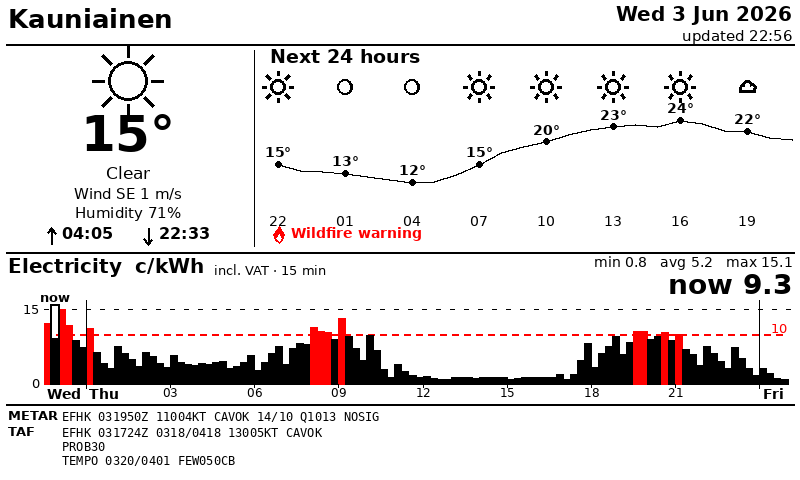
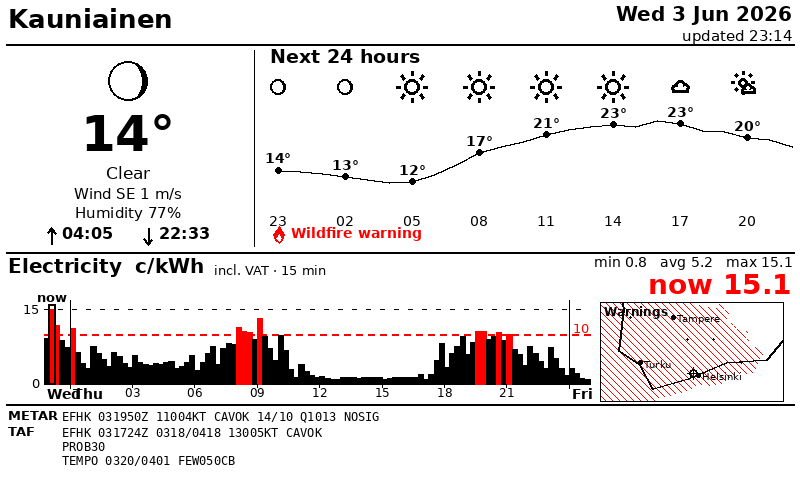
Add compact southern-Finland warnings map (corner, always on)
- epaper/finmap.py: schematic map of southern Finland (coastline + cities +
  our-location crosshair), warned areas drawn as red diagonal hatch, rendered
  into its own tile and pasted so geometry clips to the map box
- alerts.get_all(): one CAP fetch -> {warnings (point-filtered), polygons (all)}
- electricity chart shrinks to free the bottom-right corner for the map
- scripts/map_test.py prototype

diff --git a/epaper/finmap.py b/epaper/finmap.py
@@ -1,0 +1,110 @@
+"""Tiny schematic map of southern Finland (up to Tampere) for the warnings view.
+
+Draws a coarse national coastline, fills active warning areas in red, and marks a
+few cities plus our location. Equirectangular projection with a cos(lat) factor
+on longitude so shapes aren't stretched. Coordinates are (lon, lat)."""
+import math
+
+from epaper.icons import BLACK, RED, WHITE
+
+# Coarse Finland outline (lon, lat) -- enough to read the southern coast at
+# small size; the northern parts simply clip outside the map box.
+FIN_OUTLINE = [
+    (28.592, 69.065), (28.446, 68.365), (29.977, 67.698), (29.055, 66.944),
+    (30.218, 65.806), (29.544, 64.949), (30.445, 64.204), (30.036, 63.553),
+    (31.516, 62.868), (31.140, 62.358), (30.211, 61.780), (28.070, 60.504),
+    (26.255, 60.424), (24.497, 60.057), (22.870, 59.846), (22.291, 60.392),
+    (21.322, 60.720), (21.545, 61.705), (21.059, 62.607), (21.536, 63.190),
+    (22.443, 63.818), (24.730, 64.902), (25.399, 65.111), (25.295, 65.534),
+    (23.903, 66.006), (23.566, 66.396), (23.539, 67.936), (21.978, 68.617),
+    (20.646, 69.106), (21.245, 69.370), (22.182, 68.844), (23.024, 68.690),
+    (23.984, 68.689), (24.736, 68.650), (25.689, 69.092), (26.180, 69.825),
+    (27.732, 70.164), (28.592, 69.065),
+]
+
+# (name, lat, lon, is_major)
+CITIES = [
+    ("Helsinki", 60.17, 24.94, True),
+    ("Tampere", 61.50, 23.79, True),
+    ("Turku", 60.45, 22.27, True),
+    ("Lahti", 60.98, 25.66, False),
+    ("Kotka", 60.47, 26.94, False),
+    ("Hämeenlinna", 60.99, 24.46, False),
+    ("Pori", 61.49, 21.80, False),
+]
+
+# bbox: lat0, lat1, lon0, lon1  (southern Finland, north edge ~ Tampere/Pori)
+BBOX = (59.55, 61.85, 20.4, 28.9)
+
+
+def aspect(bbox=BBOX):
+    """Width/height ratio for an undistorted map of the bbox."""
+    lat0, lat1, lon0, lon1 = bbox
+    latm = (lat0 + lat1) / 2
+    return ((lon1 - lon0) * math.cos(math.radians(latm))) / (lat1 - lat0)
+
+
+def _projector(x, y, w, h, bbox=BBOX):
+    lat0, lat1, lon0, lon1 = bbox
+    latm = (lat0 + lat1) / 2
+    kx = math.cos(math.radians(latm))
+    xs = (lon1 - lon0) * kx
+    ys = (lat1 - lat0)
+
+    def proj(lon, lat):
+        return (x + (lon - lon0) * kx / xs * w,
+                y + (lat1 - lat) / ys * h)
+    return proj
+
+
+def draw_map(img, x, y, w, h, warning_polys, mark=None, title="Warnings"):
+    """warning_polys: list of rings, each a list of (lon, lat). mark: (lat, lon)
+    for our location. Warned areas are red-hatched so the map stays readable.
+
+    Rendered into its own w x h tile and pasted, so geometry reaching outside the
+    map box clips cleanly instead of spilling across the screen."""
+    from PIL import Image, ImageDraw, ImageFont
+    import config
+    w, h = int(w), int(h)
+    m = Image.new("RGB", (w, h), WHITE)
+    md = ImageDraw.Draw(m)
+    proj = _projector(0, 0, w, h, BBOX)
+
+    # warned areas as a red diagonal hatch (polygon mask -> paste)
+    mask = Image.new("1", (w, h), 0)
+    kd = ImageDraw.Draw(mask)
+    for ring in warning_polys:
+        pts = [proj(lon, lat) for lon, lat in ring]
+        if len(pts) >= 3:
+            kd.polygon(pts, fill=1)
+    hatch = Image.new("RGB", (w, h), WHITE)
+    hd = ImageDraw.Draw(hatch)
+    for i in range(-h, w, 7):
+        hd.line([(i, 0), (i + h, h)], fill=RED, width=1)
+    m.paste(hatch, (0, 0), mask)
+
+    # coastline
+    md.line([proj(lon, lat) for lon, lat in FIN_OUTLINE], fill=BLACK, width=2)
+
+    # cities
+    f = ImageFont.truetype(config.FONT_REGULAR, 10)
+    for name, lat, lon, major in CITIES:
+        px, py = proj(lon, lat)
+        if not (0 <= px <= w and 0 <= py <= h):
+            continue
+        r = 2 if major else 1
+        md.ellipse([px - r, py - r, px + r, py + r], fill=BLACK)
+        if major:
+            md.text((px + 4, py - 5), name, font=f, fill=BLACK)
+
+    # our location marker (crosshair) on top
+    if mark:
+        px, py = proj(mark[1], mark[0])
+        md.ellipse([px - 4, py - 4, px + 4, py + 4], outline=BLACK, width=2)
+        md.line([px - 6, py, px + 6, py], fill=BLACK, width=1)
+        md.line([px, py - 6, px, py + 6], fill=BLACK, width=1)
+
+    md.text((4, 2), title, font=ImageFont.truetype(config.FONT_BOLD, 12),
+            fill=BLACK)
+    md.rectangle([0, 0, w - 1, h - 1], outline=BLACK, width=1)
+    img.paste(m, (x, y))

diff --git a/epaper/alerts.py b/epaper/alerts.py
@@ -84,9 +84,12 @@ def _point_in_polygon(px, py, verts):
     return inside
 
 
-def get_alerts(lat=None, lon=None):
-    """Return active/imminent FMI warnings covering (lat, lon), most severe
-    first. Each: {category, event, severity, onset, expires}."""
+def get_all(lat=None, lon=None):
+    """One fetch -> both views of the active warnings:
+      'warnings': those covering (lat, lon), most severe first
+                  (each {category, event, severity, onset, expires})
+      'polygons': every active warning ring [(lon,lat),...] (for the map)
+    """
     lat = config.LATITUDE if lat is None else lat
     lon = config.LONGITUDE if lon is None else lon
 
@@ -95,62 +98,53 @@ def get_alerts(lat=None, lon=None):
     now = datetime.now(timezone.utc)
     horizon = now + timedelta(hours=LOOKAHEAD_HOURS)
 
-    out = []
-    seen = set()
+    warnings, polygons, seen = [], [], set()
     for entry in root.findall(ATOM + "entry"):
         # "fat Atom": the CAP alert is embedded inside <content>
         content = entry.find(ATOM + "content")
         alert = content.find(CAP + "alert") if content is not None else None
         if alert is None:
             continue
-        info = None
-        for cand in alert.findall(CAP + "info"):
-            if cand.findtext(CAP + "language") == "en-GB":
-                info = cand
-                break
+        info = next((i for i in alert.findall(CAP + "info")
+                     if i.findtext(CAP + "language") == "en-GB"), None)
         if info is None:
+            continue
+
+        onset = _parse_time(info.findtext(CAP + "onset"))
+        expires = _parse_time(info.findtext(CAP + "expires"))
+        if (expires and expires < now) or (onset and onset > horizon):
             continue
 
         event = info.findtext(CAP + "event")
         severity = info.findtext(CAP + "severity") or "Unknown"
-        onset = _parse_time(info.findtext(CAP + "onset"))
-        expires = _parse_time(info.findtext(CAP + "expires"))
-
-        # in effect now, or starting within the lookahead window
-        if expires and expires < now:
-            continue
-        if onset and onset > horizon:
-            continue
-
-        # does any area polygon contain our point?
-        hit = False
+        rings = []
         for area in info.findall(CAP + "area"):
             for poly in area.findall(CAP + "polygon"):
-                if _point_in_polygon(lon, lat, _polygon_points(poly.text)):
-                    hit = True
-                    break
-            if hit:
-                break
-        if not hit:
-            continue
+                ring = _polygon_points(poly.text)
+                if len(ring) >= 3:
+                    rings.append(ring)
+        polygons.extend(rings)
 
-        key = (event, severity)
-        if key in seen:
-            continue
-        seen.add(key)
-        out.append({
-            "category": _category(event),
-            "event": event,
-            "severity": severity,
-            "onset": onset,
-            "expires": expires,
-        })
+        if any(_point_in_polygon(lon, lat, r) for r in rings):
+            key = (event, severity)
+            if key not in seen:
+                seen.add(key)
+                warnings.append({"category": _category(event), "event": event,
+                                 "severity": severity, "onset": onset,
+                                 "expires": expires})
 
-    out.sort(key=lambda w: -_SEV_RANK.get(w["severity"], 0))
-    return out
+    warnings.sort(key=lambda w: -_SEV_RANK.get(w["severity"], 0))
+    return {"warnings": warnings, "polygons": polygons}
+
+
+def get_alerts(lat=None, lon=None):
+    """FMI warnings covering (lat, lon), most severe first."""
+    return get_all(lat, lon)["warnings"]
 
 
 if __name__ == "__main__":
-    for w in get_alerts():
+    data = get_all()
+    for w in data["warnings"]:
         print("%-9s %-9s %s" % (w["category"], w["severity"], w["event"]))
-    print("(none)" if not get_alerts() else "")
+    print("warnings:", len(data["warnings"]), " active polygons:",
+          len(data["polygons"]))

diff --git a/scripts/map_test.py b/scripts/map_test.py
@@ -1,0 +1,36 @@
+#!/usr/bin/env python3
+"""Standalone prototype: render a southern-Finland warnings map from live FMI CAP
+data. Output: out/map_test.png  (run with EPD_HTTP_INSECURE=1 on dev hosts)."""
+import os
+import sys
+
+sys.path.insert(0, ".")
+from PIL import Image, ImageDraw  # noqa: E402
+
+import config  # noqa: E402
+from epaper import alerts, finmap  # noqa: E402
+
+H = 230
+W = int(H * finmap.aspect()) + 1
+
+
+def main():
+    try:
+        polys = alerts.get_all()["polygons"]
+        print("active warning polygons:", len(polys))
+    except Exception as exc:  # noqa: BLE001
+        print("alert fetch failed:", exc)
+        polys = []
+
+    img = Image.new("RGB", (W + 2, H + 2), (255, 255, 255))
+    finmap.draw_map(img, 1, 1, W, H, polys,
+                    mark=(config.LATITUDE, config.LONGITUDE),
+                    title="S. Finland warnings")
+    os.makedirs(config.OUT_DIR, exist_ok=True)
+    out = os.path.join(config.OUT_DIR, "map_test.png")
+    img.save(out)
+    print("wrote", out, "(%dx%d)" % (W, H))
+
+
+if __name__ == "__main__":
+    main()

diff --git a/epaper/render.py b/epaper/render.py
@@ -11,6 +11,7 @@ from PIL import Image, ImageDraw, ImageFont, ImageChops
 
 import config
 from epaper import icons
+from epaper import finmap
 from epaper.icons import BLACK, RED, WHITE
 from epaper.weather import compass
 
@@ -20,6 +21,11 @@ W, H = config.EPD_WIDTH, config.EPD_HEIGHT
 ELEC_TOP = 252
 AVIATION_TOP = 404           # divider above the METAR/TAF text strip
 ELEC_BOTTOM = AVIATION_TOP - 20   # price-chart baseline (room for hour labels)
+
+# compact southern-Finland warnings map, bottom-right of the electricity zone
+MAP_W, MAP_H = 184, 100
+MAP_X, MAP_Y = 600, 302
+ELEC_CHART_RIGHT = MAP_X - 10     # the price chart shrinks to make room
 
 _FONT_CACHE = {}
 
@@ -270,8 +276,8 @@ def _electricity(d, prices):
     if n == 0:
         return
 
-    # chart area
-    cx0, cx1 = 44, W - 12
+    # chart area (right edge pulled in to leave room for the warnings map)
+    cx0, cx1 = 44, ELEC_CHART_RIGHT
     cy_top, cy_bot = top + 52, ELEC_BOTTOM
     threshold = prices["threshold"]
     vmax = max(prices["max"], threshold) * 1.08
@@ -398,8 +404,8 @@ def _fit(d, s, fnt, maxw):
 # ---------------------------------------------------------------------------
 # Public entry points
 # ---------------------------------------------------------------------------
-def render(weather, prices, aviation=None, generated_at=None, stale=False,
-           errors=None):
+def render(weather, prices, aviation=None, alert_polys=None, generated_at=None,
+           stale=False, errors=None):
     """Return an RGB Image of the full screen."""
     if generated_at is None:
         generated_at = datetime.now().astimezone()
@@ -417,8 +423,11 @@ def render(weather, prices, aviation=None, generated_at=None, stale=False,
     if prices:
         _electricity(d, prices)
     else:
-        text(d, (W / 2, (ELEC_TOP + AVIATION_TOP) / 2),
+        text(d, ((44 + ELEC_CHART_RIGHT) / 2, (ELEC_TOP + AVIATION_TOP) / 2),
              "electricity prices unavailable", _f(20), fill=RED, anchor="mm")
+
+    finmap.draw_map(img, MAP_X, MAP_Y, MAP_W, MAP_H, alert_polys or [],
+                    mark=(config.LATITUDE, config.LONGITUDE), title="Warnings")
 
     _aviation(d, aviation)
 

diff --git a/main.py b/main.py
@@ -63,7 +63,7 @@ def gather():
         ("weather", weather_mod.get_weather),
         ("prices", elec_mod.get_prices),
         ("aviation", aviation_mod.get_aviation),
-        ("alerts", alerts_mod.get_alerts),
+        ("alerts", alerts_mod.get_all),
     ]
     results = {}
     with ThreadPoolExecutor(max_workers=len(sources)) as ex:
@@ -81,13 +81,14 @@ def gather():
     weather = results.get("weather")
     prices = results.get("prices")
     aviation = results.get("aviation")
-    alerts = results.get("alerts")
+    alerts = results.get("alerts") or {}
+    alert_polys = alerts.get("polygons", [])
 
     # Official FMI CAP warnings take priority; fall back to forecast-derived ones
     # for any category the CAP feed doesn't cover (or if CAP is unavailable).
     if weather is not None:
         cap = [{"category": a["category"], "text": a["event"]}
-               for a in (alerts or [])]
+               for a in alerts.get("warnings", [])]
         cap_cats = {w["category"] for w in cap}
         derived = [w for w in weather.get("warnings", [])
                    if w["category"] not in cap_cats]
@@ -98,15 +99,16 @@ def gather():
 
     # stale if either shown dataset came from cache
     stale = bool(errors) and (weather is not None or prices is not None)
-    return weather, prices, aviation, datetime.now().astimezone(), stale, errors
+    return (weather, prices, aviation, alert_polys,
+            datetime.now().astimezone(), stale, errors)
 
 
 def run_once(backend):
-    weather, prices, aviation, generated_at, stale, errors = gather()
+    weather, prices, aviation, alert_polys, generated_at, stale, errors = gather()
     if weather is None and prices is None:
         print("ERROR: no data and no cache; rendering error screen")
-    img = render.render(weather, prices, aviation, generated_at=generated_at,
-                        stale=stale, errors=errors)
+    img = render.render(weather, prices, aviation, alert_polys=alert_polys,
+                        generated_at=generated_at, stale=stale, errors=errors)
     backend.show(img)
     if errors:
         print("completed with warnings: %s" % "; ".join(errors))

diff --git a/README.md b/README.md
@@ -149,6 +149,7 @@ main.py
  ├─ epaper/electricity.py  sahkotin → 15-min prices (insecure TLS)
  ├─ epaper/aviation.py     METAR/TAF for EFHK (aviationweather.gov)
  ├─ epaper/alerts.py       FMI CAP warnings (alerts.fmi.fi), polygon-filtered
+ ├─ epaper/finmap.py       compact S-Finland warnings map (hatched warned areas)
  ├─ epaper/icons.py        vector weather icons + phased moon
  ├─ epaper/render.py       PIL → 800×480 black/red/white image
  │   └─ split_planes()     → two 1-bit planes (black, red)